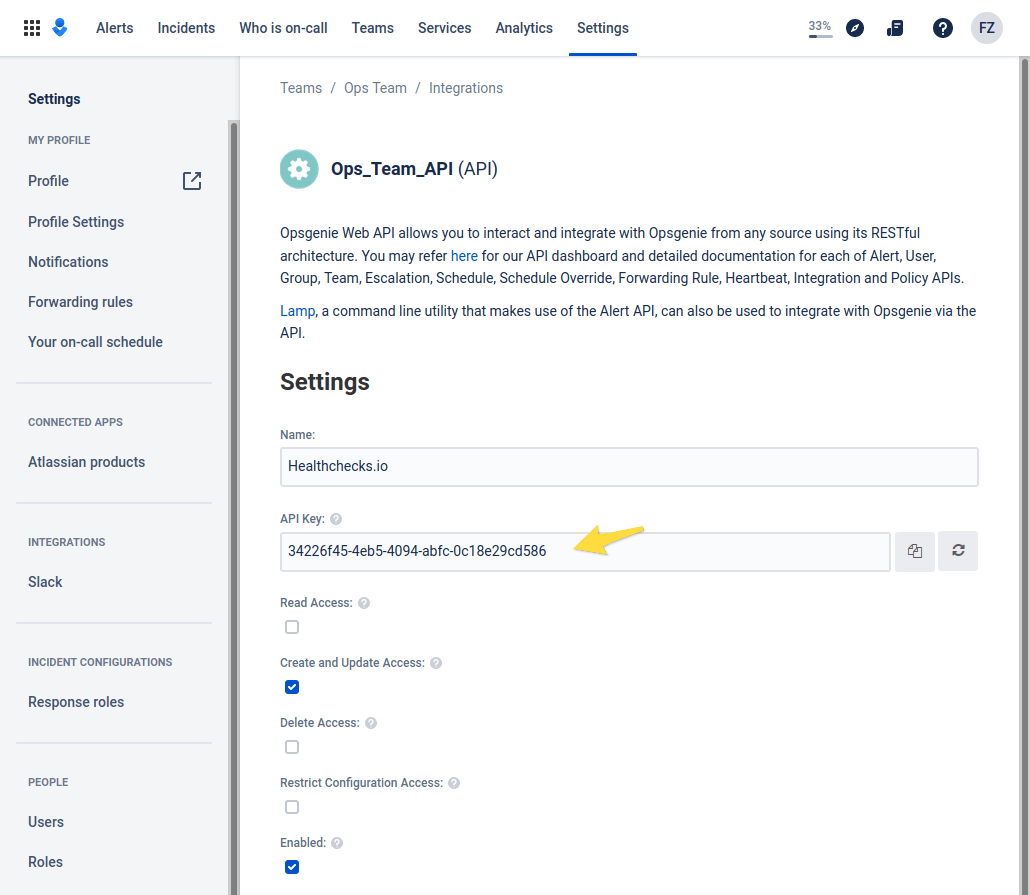
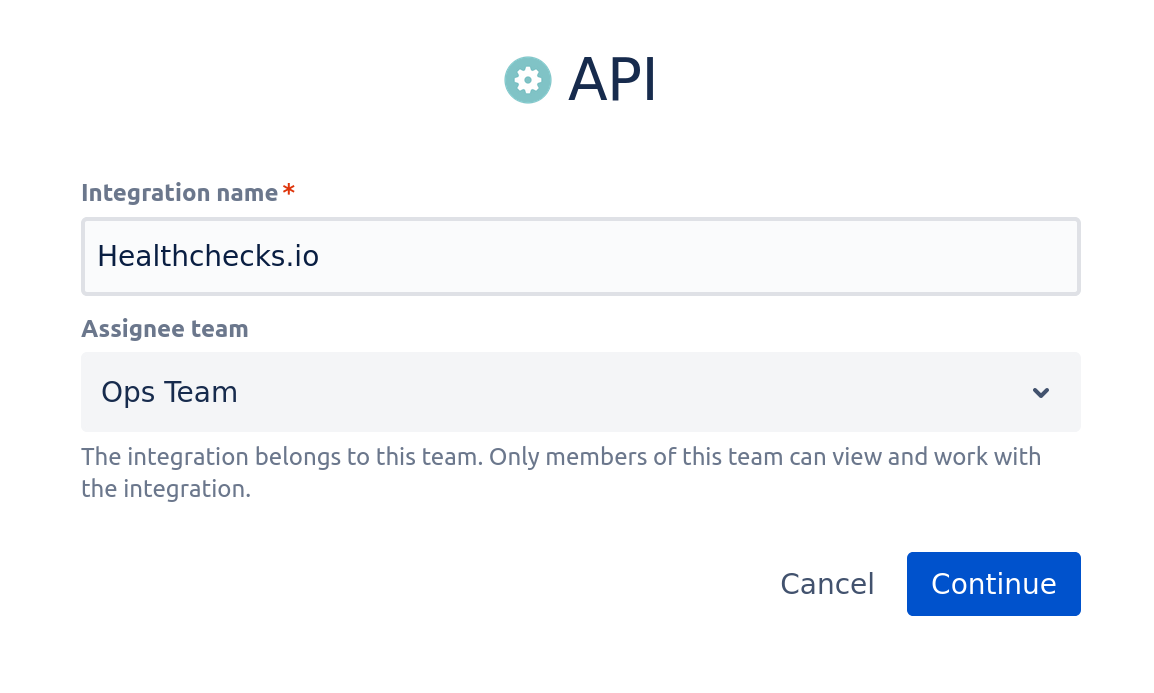
Update Opsgenie instructions

diff --git a/templates/integrations/add_opsgenie.html b/templates/integrations/add_opsgenie.html
@@ -21,7 +21,8 @@
             <p>
                 Log into your Opsgenie account,
                 select a team, and go to the team's
-                <strong>Integrations › Add integration</strong> page.
+                <strong>Integrations</strong> page and click
+                <strong>Add integration</strong>.
             </p>
         </div>
         <div class="col-sm-6">
@@ -43,20 +44,11 @@
                 src="{% static 'img/integrations/setup_opsgenie_2.png' %}">
         </div>
     </div>
+
     <div class="row ai-step">
         <div class="col-sm-6">
             <span class="step-no"></span>
-            <p>The integration needs a <strong>Create and Update Access</strong>
-                permission, make sure it is <strong>checked</strong>.
-            </p>
-            <p>
-                The integration does not need the <strong>Read Access</strong> and
-                <strong>Delete Access</strong> checkboxes – make sure they are
-                <strong>unchecked</strong>.
-            </p>
-            <p>Give the integration a descriptive name,
-                take note of its <strong>API Key</strong>, then save the integration.
-            </p>
+            Give the integration a descriptive name.
         </div>
         <div class="col-sm-6">
             <img
@@ -69,7 +61,22 @@
     <div class="row ai-step">
         <div class="col-sm-6">
             <span class="step-no"></span>
-            <p>Paste the API Key down below, and make sure the correct
+            <p>Copy the displayed API key, then click on
+               <strong>Turn on integration</strong>.
+            </p>
+        </div>
+        <div class="col-sm-6">
+            <img
+                class="ai-guide-screenshot"
+                alt="Screenshot"
+                src="{% static 'img/integrations/setup_opsgenie_4.png' %}">
+        </div>
+    </div>
+
+    <div class="row ai-step">
+        <div class="col-sm-6">
+            <span class="step-no"></span>
+            <p>Paste the API key in the form below, and make sure the correct
                 <strong>service region</strong> is selected.
                 Save the integration, and you are done!
             </p>

diff --git a/CHANGELOG.md b/CHANGELOG.md
@@ -1,6 +1,11 @@
 # Changelog
 All notable changes to this project will be documented in this file.
 
+## v3.2-dev - Unreleased
+
+### Improvements
+- Update Opsgenie instructions
+
 ## v3.1 - 2023-12-13
 
 ### Improvements
